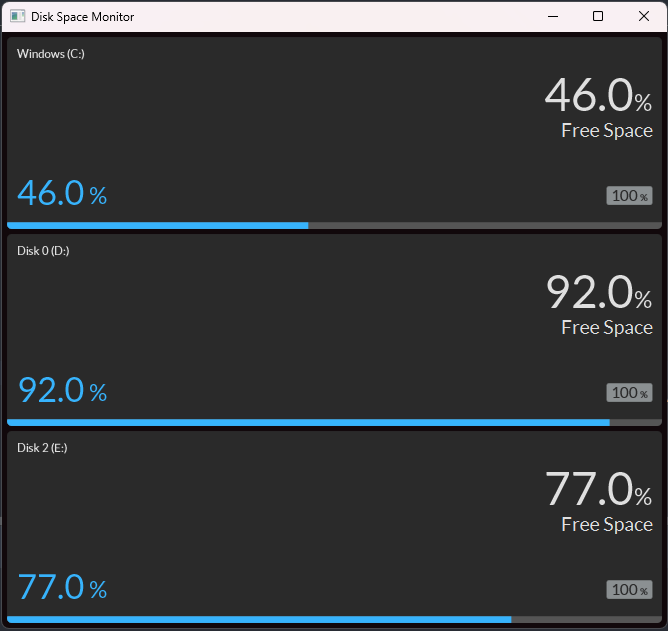
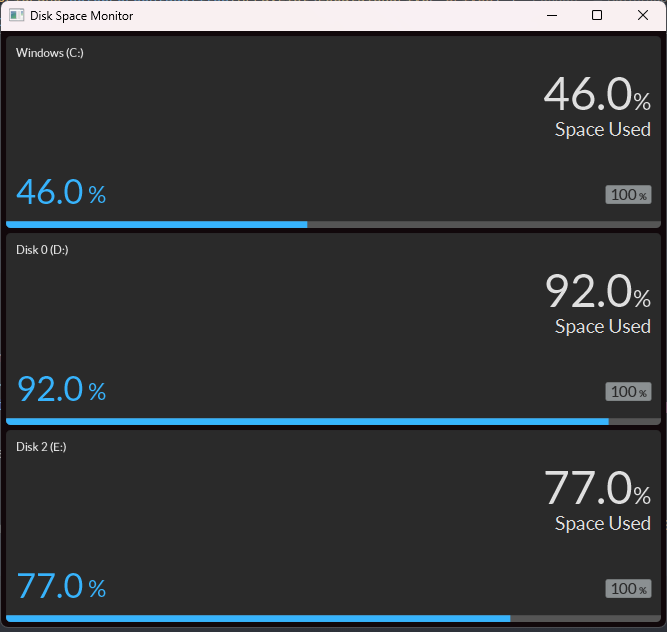
Updates wording/screenshot

diff --git a/DiskSpaceMonitor/src/main/java/com/dsm/diskspacemonitor/DSMApplication.java b/DiskSpaceMonitor/src/main/java/com/dsm/diskspacemonitor/DSMApplication.java
@@ -77,7 +77,7 @@ public class DSMApplication extends Application {
                     .prefSize(655, 192)
                     .title(drive.getName())
                     .unit("%")
-                    .description("Free Space")
+                    .description("Space Used")
                     .maxValue(100)
                     .build();
             colorTile.setValue(drive.percentDiskSpaceUsed);
